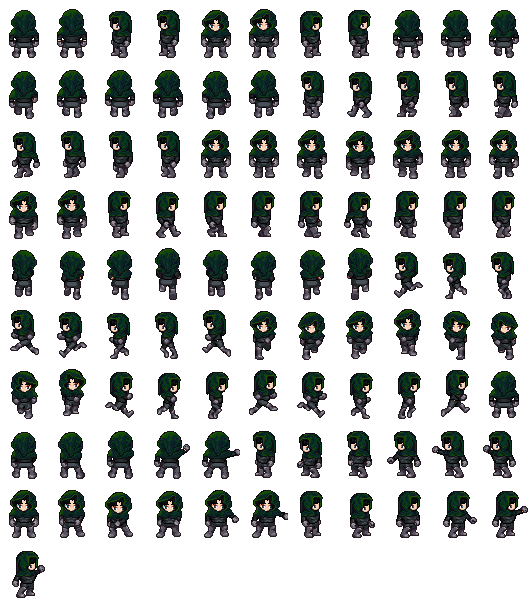
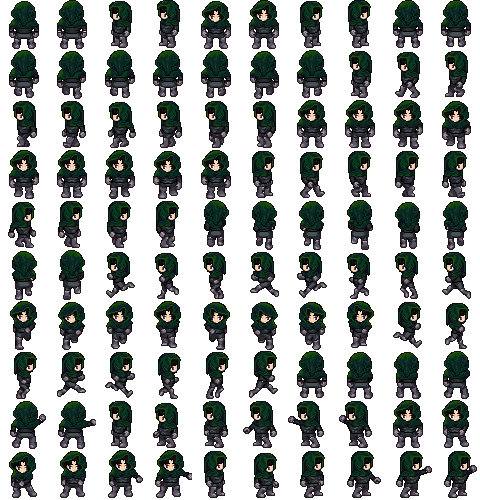
Ajuste de sprite de todos os inimigos de 48x60 para 48x50 sem cortar nada dos sprites

diff --git a/src/scenes/jogo.js b/src/scenes/jogo.js
@@ -11,9 +11,9 @@ export default class Jogo extends Phaser.Scene {
 
         // Carregando os sprites dos personagens
         this.load.spritesheet('player', 'public/assets/personagens/player.png', { frameWidth: 48, frameHeight: 50 })
-        this.load.spritesheet('enemy1', 'public/assets/personagens/enemy1.png', { frameWidth: 48, frameHeight: 60 })
-        this.load.spritesheet('enemy2', 'public/assets/personagens/enemy2.png', { frameWidth: 48, frameHeight: 60 })
-        this.load.spritesheet('enemy3', 'public/assets/personagens/enemy3.png', { frameWidth: 48, frameHeight: 60 })
+        this.load.spritesheet('enemy1', 'public/assets/personagens/enemy1.png', { frameWidth: 48, frameHeight: 50 })
+        this.load.spritesheet('enemy2', 'public/assets/personagens/enemy2.png', { frameWidth: 48, frameHeight: 50 })
+        this.load.spritesheet('enemy3', 'public/assets/personagens/enemy3.png', { frameWidth: 48, frameHeight: 50 })
         this.load.spritesheet('npc', 'public/assets/personagens/npc.png', { frameWidth: 48, frameHeight: 50 })
 
         // Carregando os sprites do mapa